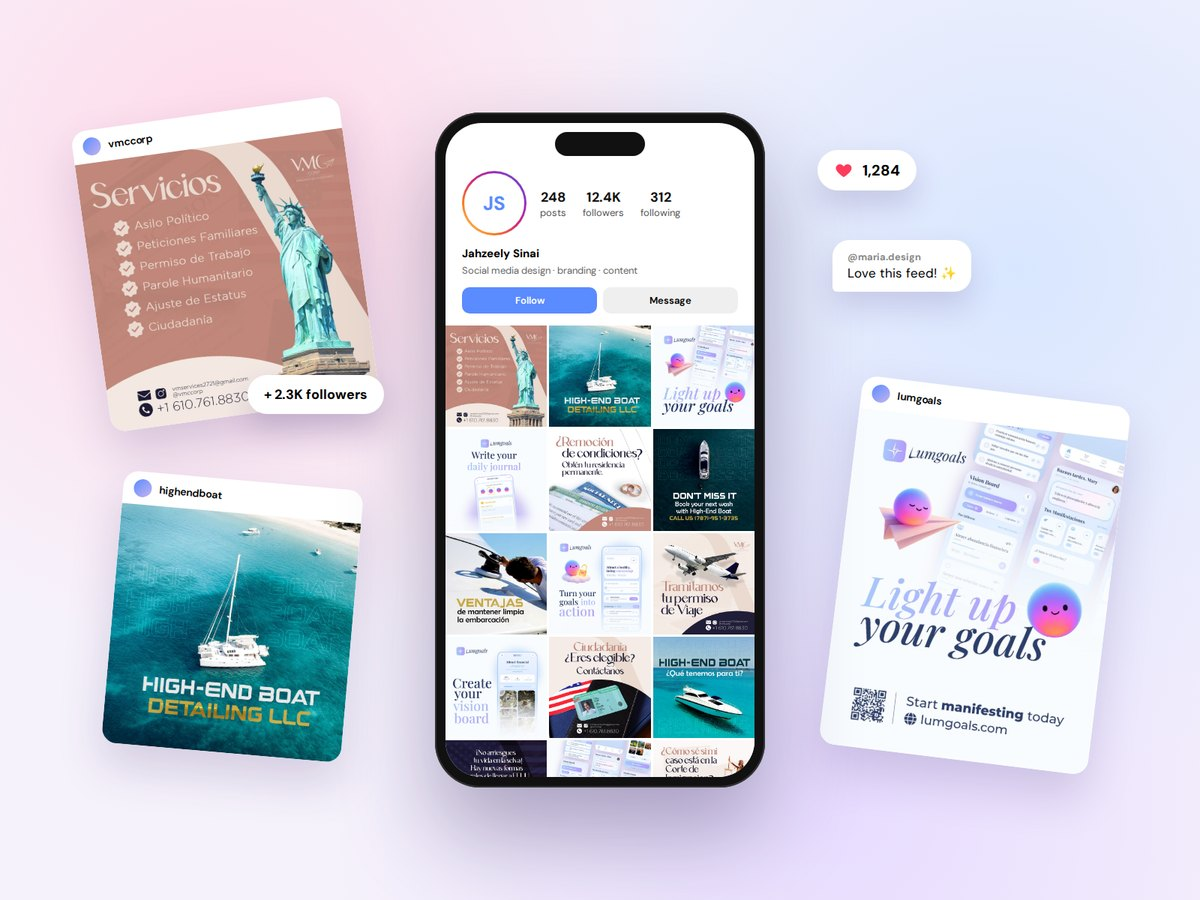
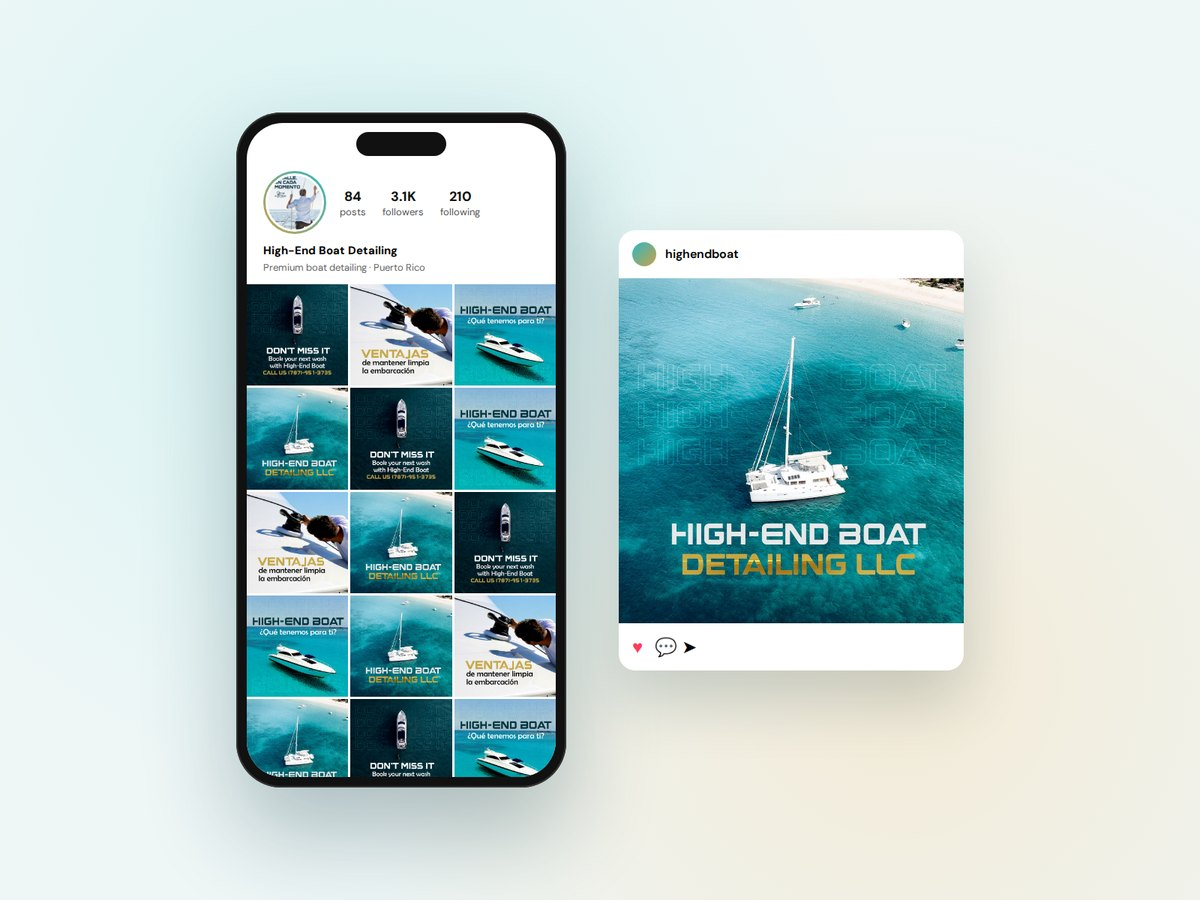
Social Media: imagen de categoría solo con High-End Boat

diff --git a/index.html b/index.html
@@ -59,7 +59,7 @@
 </article><article class="svc-row" style="z-index:3">
   <div class="svc-num">S/ 003</div>
   <div class="svc-body"><h3>Social Media</h3><p data-en="Visual content for social networks that connects and converts." data-es="Contenido visual para redes que conecta y convierte.">Visual content for social networks that connects and converts.</p><a class="pill" href="projects.html?filter=social"><span data-en="View projects" data-es="Ver proyectos">View projects</span></a></div>
-  <div class="svc-art" data-clip><img src="assets/categories/social.jpg?v=1792860500" alt="Social Media" loading="lazy"></div>
+  <div class="svc-art" data-clip><img src="assets/categories/social.jpg?v=1792871012" alt="Social Media" loading="lazy"></div>
 </article><article class="svc-row" style="z-index:4">
   <div class="svc-num">S/ 004</div>
   <div class="svc-body"><h3>Packaging</h3><p data-en="Packages that live on shelves and in consumer memory." data-es="Empaques que viven en estantes y en la memoria.">Packages that live on shelves and in consumer memory.</p><a class="pill" href="projects.html?filter=packaging"><span data-en="View projects" data-es="Ver proyectos">View projects</span></a></div>
